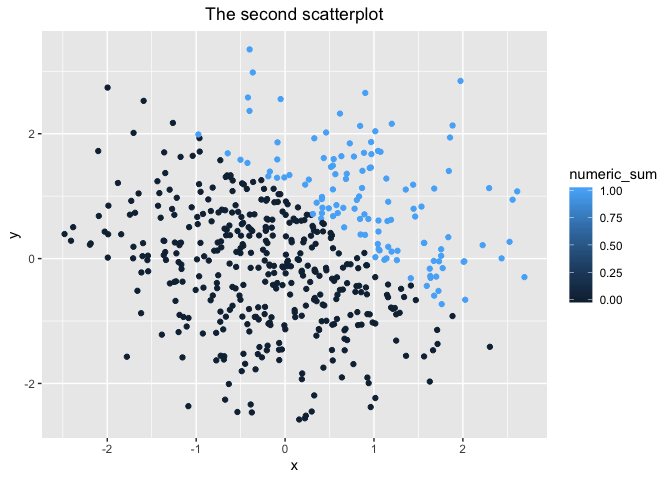
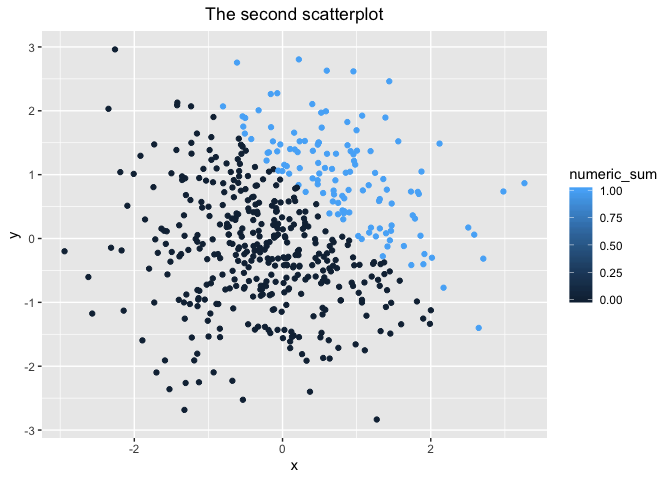
Make comments on color sacles and simplify names of dateframe and variables.

diff --git a/p8105_hw1_xj2249.md b/p8105_hw1_xj2249.md
@@ -1,22 +1,22 @@
 p8105\_hw1\_xj2249
 ================
-jx
+jx2249
 2019/9/12
 
 # Problem 1
 
-## create a data frame
+## Create a data frame
 
 ``` r
 library(tidyverse)
-my_data_frame <- tibble(
-                        rnorm_sample = rnorm(8), 
-                        sample_pos = rnorm_sample > 0,
-                        character_sample = c(rep(c("dog","cat"),4)), 
-                        factor_sample = factor(c("a","b","c","a","b","c","a","b"))
-                        )
+p1_df <- tibble(
+                rnorm_sample = rnorm(8), 
+                sample_pos = rnorm_sample > 0,
+                character_vec = c(rep(c("dog","cat"),4)), 
+                factor_vec = factor(c("a","b","c","a","b","c","a","b"))
+                )
                
-sapply(my_data_frame, mean)
+sapply(p1_df, mean)
 ```
 
     ## Warning in mean.default(X[[i]], ...): argument is not numeric or logical:
@@ -25,80 +25,81 @@ sapply(my_data_frame, mean)
     ## Warning in mean.default(X[[i]], ...): argument is not numeric or logical:
     ## returning NA
 
-    ##     rnorm_sample       sample_pos character_sample    factor_sample 
-    ##        -0.184979         0.500000               NA               NA
+    ##  rnorm_sample    sample_pos character_vec    factor_vec 
+    ##    -0.3120196     0.5000000            NA            NA
 
 It works to take the mean of the random sample and the logical variable,
-but it doesn’t when it comes to the logical and the factor
+but it doesn’t when it comes to the character and the factor
 variable.
 
 ## Apply the “as.numeric function”
 
 ``` r
 # convert the logical vector to numeric, and multiply the random sample by the result
-as.numeric(pull(my_data_frame, sample_pos ))
+as.numeric(pull(p1_df, sample_pos ))
 # convert the logical vector to a factor, and multiply the random sample by the result
-as.numeric(pull(my_data_frame, character_sample ))
+as.numeric(pull(p1_df, character_vec ))
 # convert the logical vector to a factor and then convert the result to numeric, and multiply the random sample by the result
-as.numeric(pull(my_data_frame, factor_sample ))
+as.numeric(pull(p1_df, factor_vec ))
 ```
 
 As the result shows, the logical variable is able to be converted into
 numbers(1 or 0).  
 The character variable and the factor variables are not allowed since in
-my case, they are neither numeric nor logical
-value.
+my case, they are neither numeric nor logical value, which explains why
+means can’t be taken
+    above.
 
 ## We’re converting variables \!
 
 ``` r
-as.numeric(pull(my_data_frame, sample_pos )) * pull(my_data_frame, rnorm_sample )
+as.numeric(pull(p1_df, sample_pos )) * pull(p1_df, rnorm_sample )
 ```
 
-    ## [1] 0.63038384 0.00000000 0.17429152 0.01885925 0.11990204 0.00000000
-    ## [7] 0.00000000 0.00000000
+    ## [1] 0.00000000 0.00000000 1.34086998 0.00000000 0.00000000 0.01309222
+    ## [7] 1.15192030 0.08128490
 
 ``` r
-as.factor(pull(my_data_frame, sample_pos )) * pull(my_data_frame, rnorm_sample )
+as.factor(pull(p1_df, sample_pos )) * pull(p1_df, rnorm_sample )
 ```
 
-    ## Warning in Ops.factor(as.factor(pull(my_data_frame, sample_pos)),
-    ## pull(my_data_frame, : '*' not meaningful for factors
+    ## Warning in Ops.factor(as.factor(pull(p1_df, sample_pos)), pull(p1_df,
+    ## rnorm_sample)): '*' not meaningful for factors
 
     ## [1] NA NA NA NA NA NA NA NA
 
 ``` r
-as.numeric(as.factor(pull(my_data_frame, sample_pos ))) * pull(my_data_frame, rnorm_sample )
+as.numeric(as.factor(pull(p1_df, sample_pos ))) * pull(p1_df, rnorm_sample )
 ```
 
-    ## [1]  1.2607677 -0.9158684  0.3485830  0.0377185  0.2398041 -0.8565957
-    ## [7] -0.1441952 -0.5066091
+    ## [1] -1.13726918 -1.47108259  2.68173995 -0.56059631 -1.91437593  0.02618444
+    ## [7]  2.30384061  0.16256980
 
 # Problem 2
 
 ## Create a new data frame
 
 ``` r
-p2_data_frame <- tibble(
-                        x = rnorm(500), 
-                        y = rnorm(500),
-                        sum_compare = (x + y) > 1, 
-                        numeric_sum = as.numeric(sum_compare),
-                        factor_sum = as.factor(sum_compare)
-                        )
+p2_df <- tibble(
+                x = rnorm(500), 
+                y = rnorm(500),
+                sum_compare = (x + y) > 1, 
+                numeric_sum = as.numeric(sum_compare),
+                factor_sum = as.factor(sum_compare)
+                )
 ```
 
   - The size of the dataset is 500 and 500
-  - The mean, median, and standard deviation of x are 0.0385086,
-    0.0078141 and 0.9803149
-  - The proportion of cases for which x + y \> 1 is 0.238
+  - The mean, median, and standard deviation of x are -0.0249642,
+    -0.071283 and 0.9822064
+  - The proportion of cases for which x + y \> 1 is 0.244
 
 ## Make scatterplots of y vs x
 
 ``` r
 library(ggplot2)
 plot1 <- 
-        p2_data_frame %>% 
+        p2_df %>% 
         ggplot(aes(x = x, y = y, color = sum_compare)) + 
         geom_point() + 
         labs(title = "The first scatterplot") + 
@@ -110,31 +111,33 @@ plot1
 ![](p8105_hw1_xj2249_files/figure-gfm/unnamed-chunk-5-1.png)<!-- -->
 
 ``` r
-plot2 <-
-        p2_data_frame %>% 
-        ggplot(aes(x = x, y = y, color = numeric_sum)) + 
-        geom_point()+ 
-        labs(title = "The second scatterplot")+ 
-        theme(plot.title = element_text(hjust = 0.5))
+plot2 <- p2_df %>% 
+         ggplot(aes(x = x, y = y, color = numeric_sum)) + 
+         geom_point() + 
+         labs(title = "The second scatterplot") + 
+         theme(plot.title = element_text(hjust = 0.5))
 plot2 
 ```
 
 ![](p8105_hw1_xj2249_files/figure-gfm/unnamed-chunk-5-2.png)<!-- -->
 
 ``` r
-plot3 <-
-        p2_data_frame %>% 
-        ggplot(aes(x = x, y = y, color = factor_sum)) + 
-        geom_point()+ 
-        labs(title = "The third scatterplot") +
-        theme(plot.title = element_text(hjust = 0.5))
+plot3 <- p2_df %>% 
+         ggplot(aes(x = x, y = y, color = factor_sum)) + 
+         geom_point() + 
+         labs(title = "The third scatterplot") +
+         theme(plot.title = element_text(hjust = 0.5))
 plot3 
 ```
 
 ![](p8105_hw1_xj2249_files/figure-gfm/unnamed-chunk-5-3.png)<!-- -->
 
 ``` r
+# Export the first scatterplot to project directory using ggsave.
 ggsave("plot1.png",plot1)
 ```
 
-    ## Saving 7 x 5 in image
+In plot2 and plot3, the `color = ...` inside of `aes()` are respectively
+numeric and factor variables, which correspond to gradient and discrete
+color scale, though in this case, the plot2 also shows only two colors.(
+Because only two value 0 or 1 can be taken).
